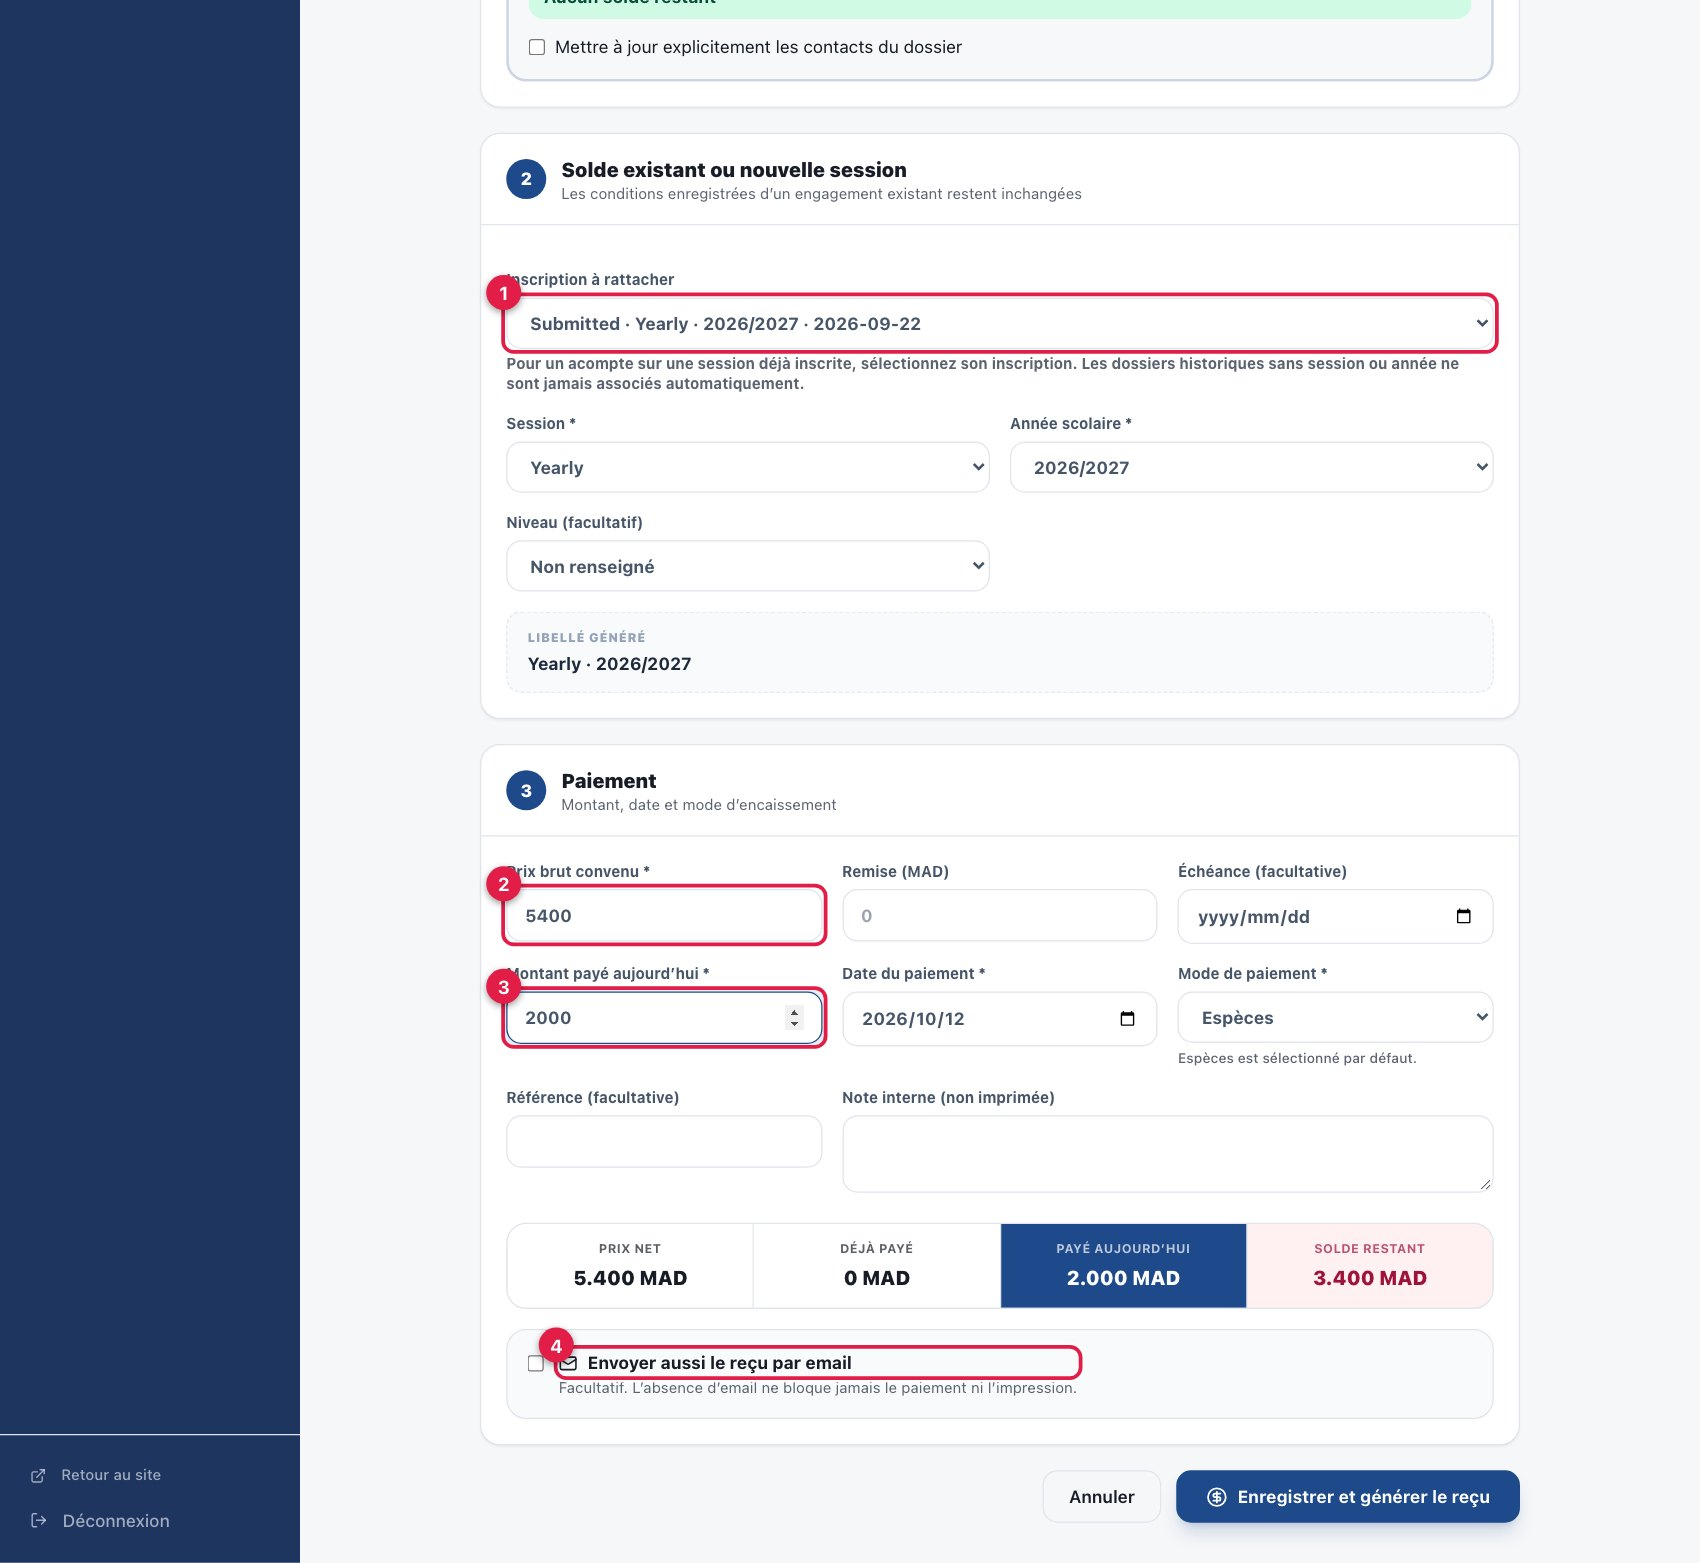
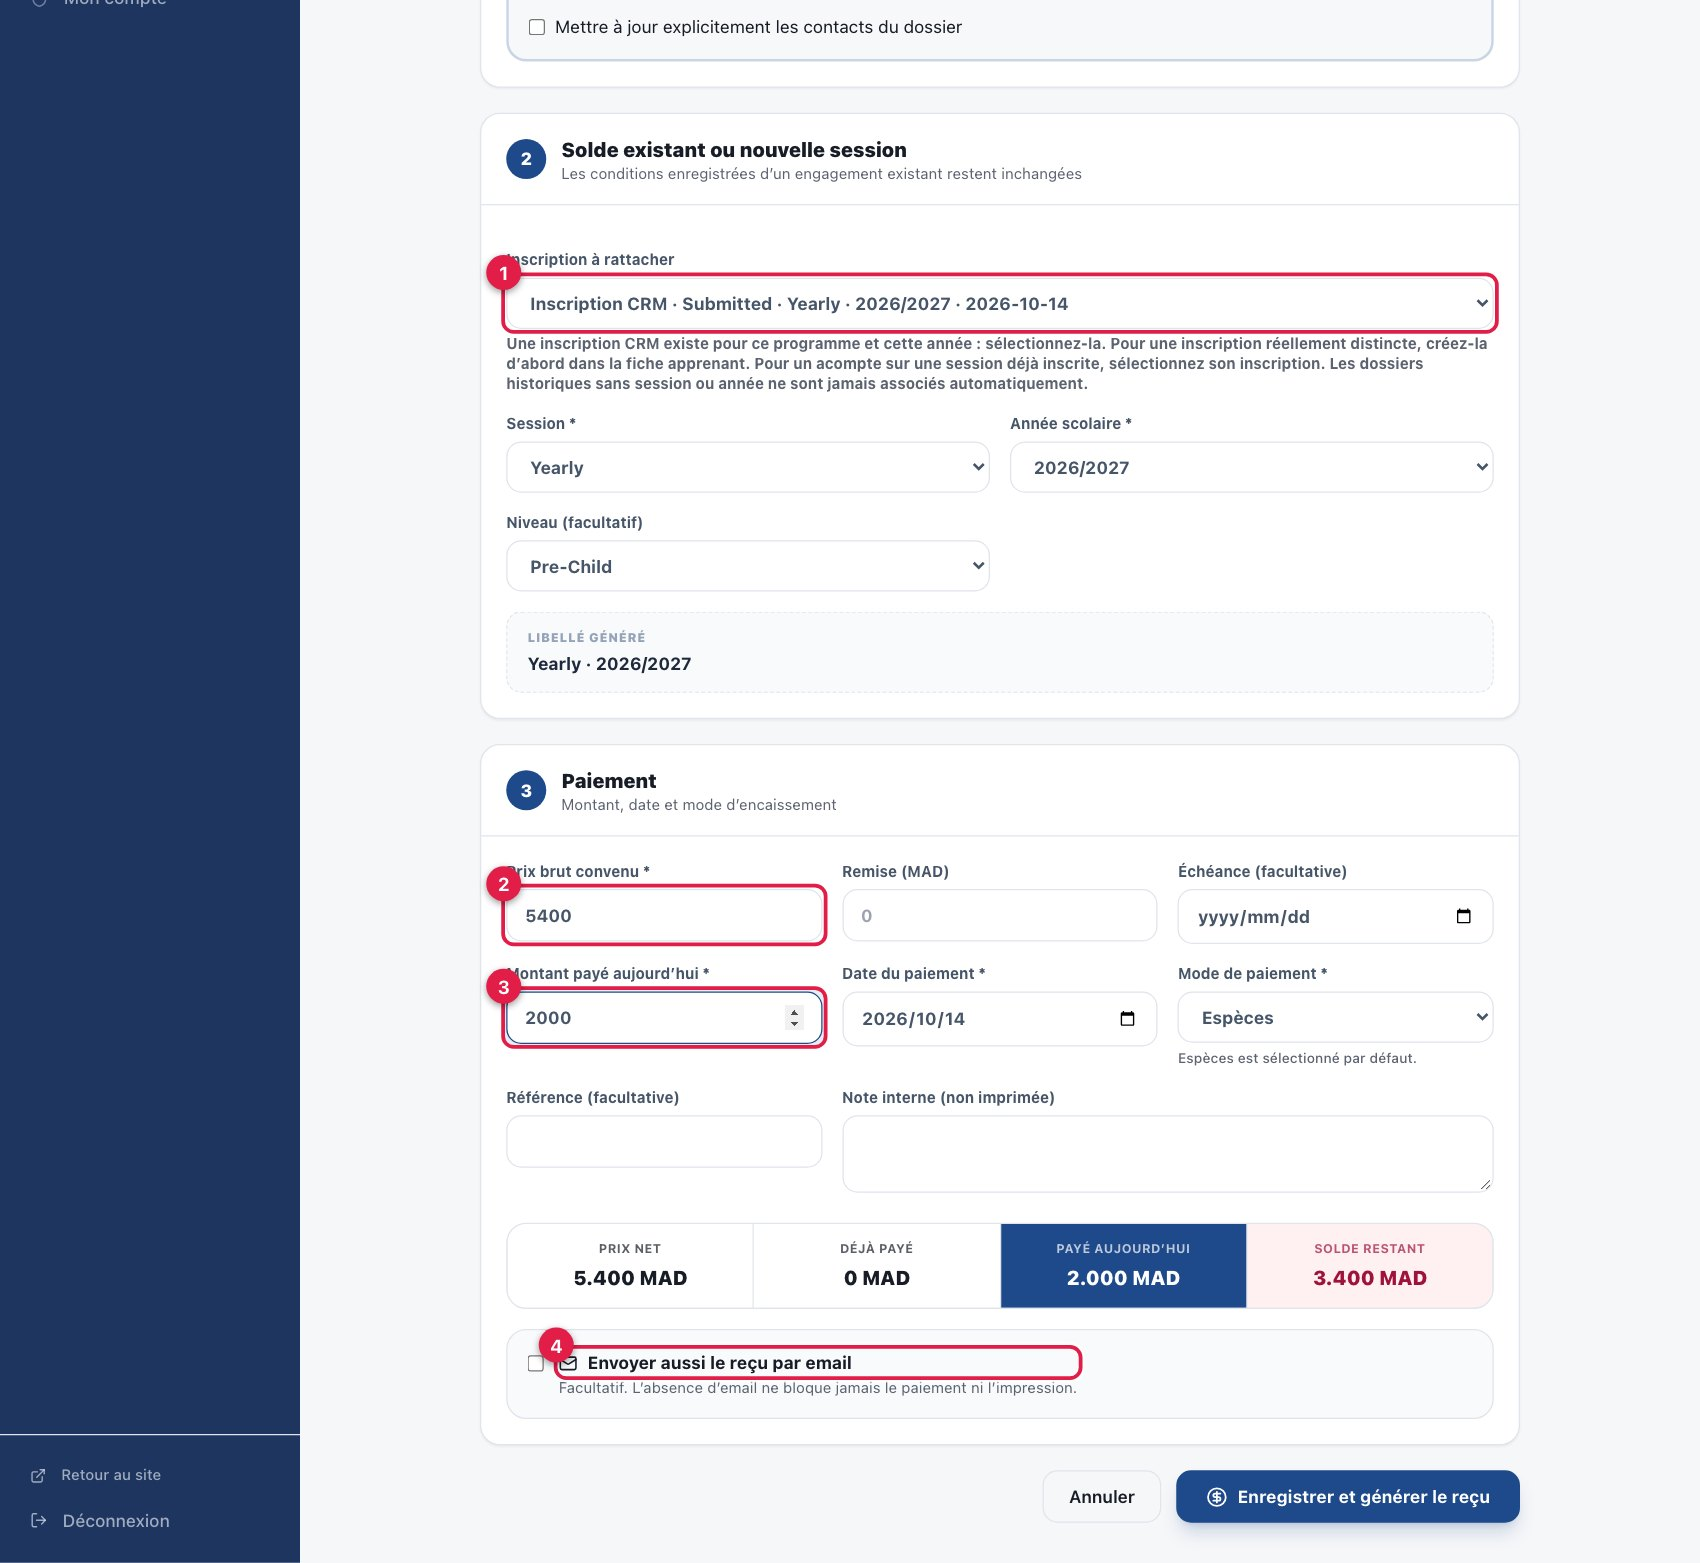
fix(help): address independent review findings on the /helpdesk guide
Review of 9cc9b466 returned READY FOR FINAL REVIEW with no blockers; this
commit closes its important findings and cheap test gaps on the same branch.

- I3: the scenario-6 screenshot showed a non-CRM enrollment while the text
  told staff to pick "Inscription CRM · ...". Recaptured from a real CRM-linked
  pre-enrollment (synthetic data) and the caption now says to choose the line
  starting with "Inscription CRM ·", which is what converts the prospect.
- I2: record that public/helpdesk screenshots are public static files that must
  stay synthetic (FEATURE_INDEX row and a note in GuideContent.jsx).
- Test gaps: the Sidebar test now asserts the "Aide" entry for director, admin
  and receptionist only (teacher, parent, student and unknown roles never see
  it), and test-helpdesk-content asserts every selector in helpdesk.css is
  scoped under .hd or .hd-scroll. Both were mutation-checked to fail on a
  regression.
- Lightbox: Tab stays on Close, focus returns to the screenshot on close, and
  scroll no longer chains to the page behind it.
- The three enrollment buttons are quoted with the straight apostrophe the UI
  uses ("Commencer l'inscription", "Continuer l'inscription", "Ouvrir
  l'apprenant").

No routing, authorization, data access or migration change.

Changed region(s): [[0.2806, 0.0921, 0.9041, 0.2457], [0.3118, 0.0, 0.8729, 0.0614], [0.3118, 0.3378, 0.3741, 0.3685]]

diff --git a/src/app/(admin)/helpdesk/GuideContent.jsx b/src/app/(admin)/helpdesk/GuideContent.jsx
@@ -3,6 +3,7 @@ import Image from 'next/image';
 // Static French guide for the reception team, served at /helpdesk.
 // Source of truth for the content: this file. Screenshots live in public/helpdesk (synthetic data only).
 // Keep button and menu names exactly as they appear on screen; scripts/test-helpdesk-content.mjs checks anchors and images.
+// The screenshots in public/helpdesk are public static files (no login needed to fetch them): they must contain synthetic data only.
 export default function GuideContent() {
   return (
     <>
@@ -132,7 +133,7 @@ export default function GuideContent() {
 </tr>
 <tr>
 <td>Inscrire un prospect qualifié</td>
-<td>Fiche du prospect › <span className="ui">Commencer l’inscription</span></td>
+<td>Fiche du prospect › <span className="ui">Commencer l&apos;inscription</span></td>
 <td><a href="#s6">Scénario 6</a></td>
 </tr>
 <tr>
@@ -508,7 +509,7 @@ export default function GuideContent() {
 </li>
 </ol>
 <div className="callout warn">
-<strong>«&nbsp;Marquer comme fait&nbsp;» ne fait que fermer la tâche</strong><p>Cela ne réserve pas de test, ne commence pas d’inscription et ne change pas l’étape. Pour avancer, utilisez les boutons de la fiche&nbsp;: <span className="ui">Réserver un test</span> ou <span className="ui">Commencer l’inscription</span>.</p>
+<strong>«&nbsp;Marquer comme fait&nbsp;» ne fait que fermer la tâche</strong><p>Cela ne réserve pas de test, ne commence pas d’inscription et ne change pas l’étape. Pour avancer, utilisez les boutons de la fiche&nbsp;: <span className="ui">Réserver un test</span> ou <span className="ui">Commencer l&apos;inscription</span>.</p>
 </div>
 <p>Pour décaler une visite&nbsp;: <span className="ui">Replanifier</span>, nouvelle date et heure. Pour la supprimer&nbsp;: <span className="ui">Annuler l’action</span> dans la fiche (un motif et une nouvelle prochaine action sont demandés). Le bouton <span className="ui">Annuler</span> n’existe pas sur les lignes de la page Tâches.</p>
 </article>
@@ -520,13 +521,13 @@ export default function GuideContent() {
 </header>
 <ol className="flow">
 <li><b>Prospect Qualifié</b><small>le projet est qualifié</small></li>
-<li><b>Pré-inscription</b><small>«&nbsp;Commencer l’inscription&nbsp;»&nbsp;: le prospect reste Qualifié</small></li>
+<li><b>Pré-inscription</b><small>«&nbsp;Commencer l&apos;inscription&nbsp;»&nbsp;: le prospect reste Qualifié</small></li>
 <li><b>Paiement</b><small>«&nbsp;Nouveau reçu&nbsp;»&nbsp;: inscription confirmée</small></li>
 <li><b>Groupe affecté</b><small>«&nbsp;Groupe à affecter&nbsp;»&nbsp;: inscription validée</small></li>
 </ol>
 <h4>Temps 1&nbsp;: créer la pré-inscription</h4>
 <ol className="steps">
-<li><p>Dans la fiche, section <b>Inscription</b>, cliquez sur <span className="ui">Commencer l’inscription</span>. Le bouton n’existe que pour un prospect <span className="st st-qual">Qualifié</span> sans inscription.</p>
+<li><p>Dans la fiche, section <b>Inscription</b>, cliquez sur <span className="ui">Commencer l&apos;inscription</span>. Le bouton n’existe que pour un prospect <span className="st st-qual">Qualifié</span> sans inscription.</p>
 </li>
 <li><p><b>Étape 1/3, Apprenant.</b> Saisissez le <span className="ui">Nom de l’apprenant</span> et, si vous la connaissez, la date de naissance (pas dans le futur). La plateforme cherche les apprenants déjà connus&nbsp;: <span className="ui">Utiliser cet apprenant</span> s’il s’agit de lui, sinon <span className="ui">Créer un nouvel apprenant</span> et cochez «&nbsp;J’ai vérifié les correspondances&nbsp;: il s’agit d’un autre apprenant&nbsp;».</p>
 </li>
@@ -536,7 +537,7 @@ export default function GuideContent() {
 </li>
 </ol>
 <figure className="fig narrow">
-<Image src="/helpdesk/s08-enroll.jpg" width={1700} height={1075} alt="Fenêtre Commencer l’inscription, étape 2 sur 3" unoptimized tabIndex={0} role="button" /><figcaption>Étape 2 sur 3 de la fenêtre <span className="ui">Commencer l’inscription</span>.</figcaption>
+<Image src="/helpdesk/s08-enroll.jpg" width={1700} height={1075} alt="Fenêtre Commencer l&apos;inscription, étape 2 sur 3" unoptimized tabIndex={0} role="button" /><figcaption>Étape 2 sur 3 de la fenêtre <span className="ui">Commencer l&apos;inscription</span>.</figcaption>
 <ol className="legend">
 <li><span className="ui">Programme</span>&nbsp;: «&nbsp;Programme annuel&nbsp;», «&nbsp;Adultes&nbsp;», «&nbsp;Stage d’été&nbsp;»…</li>
 <li><span className="ui">Niveau proposé</span>&nbsp;: «&nbsp;À définir&nbsp;» si le test n’a pas eu lieu.</li>
@@ -546,7 +547,7 @@ export default function GuideContent() {
 </figure>
 <h4>Temps 2&nbsp;: encaisser et confirmer</h4>
 <ol className="steps">
-<li><p>Dans la fiche, cliquez sur <span className="ui">Continuer l’inscription</span>&nbsp;: la fiche de l’apprenant s’ouvre avec l’inscription mise en évidence («&nbsp;Inscription liée au prospect CRM&nbsp;»).</p>
+<li><p>Dans la fiche, cliquez sur <span className="ui">Continuer l&apos;inscription</span>&nbsp;: la fiche de l’apprenant s’ouvre avec l’inscription mise en évidence («&nbsp;Inscription liée au prospect CRM&nbsp;»).</p>
 </li>
 <li><p>Dans la section <b>Paiements</b>, cliquez sur <span className="ui">Nouveau reçu</span>.</p>
 </li>
@@ -560,8 +561,8 @@ export default function GuideContent() {
 </li>
 </ol>
 <figure className="fig narrow">
-<Image src="/helpdesk/s09-receipt-existing.jpg" width={1700} height={1563} alt="Formulaire de paiement avec l’inscription à rattacher, le prix et le montant payé" unoptimized tabIndex={0} role="button" /><ol className="legend">
-<li><span className="ui">Inscription à rattacher</span>&nbsp;: l’inscription créée depuis le prospect. Les statuts sont en anglais dans cette liste (Submitted = Soumise).</li>
+<Image src="/helpdesk/s09-receipt-existing.jpg" width={1700} height={1563} alt="Formulaire de paiement avec l’inscription à rattacher « Inscription CRM · Submitted », le prix et le montant payé" unoptimized tabIndex={0} role="button" /><ol className="legend">
+<li><span className="ui">Inscription à rattacher</span>&nbsp;: choisissez la ligne qui commence par «&nbsp;Inscription CRM&nbsp;·&nbsp;». C’est l’inscription créée depuis le prospect, et c’est ce choix qui le convertit. Les statuts sont en anglais dans cette liste (Submitted = Soumise).</li>
 <li><span className="ui">Prix brut convenu</span>&nbsp;: saisi à chaque nouvel engagement, il n’y a pas de tarif par défaut.</li>
 <li><span className="ui">Montant payé aujourd’hui</span>&nbsp;: il ne peut pas dépasser le solde.</li>
 <li><span className="ui">Envoyer aussi le reçu par email</span>&nbsp;: facultatif, désactivé par défaut.</li>
@@ -1208,7 +1209,7 @@ export default function GuideContent() {
 <p>C’est voulu&nbsp;: la pré-inscription ne confirme rien. Le prospect passe en «&nbsp;Inscription confirmée&nbsp;» quand un paiement est enregistré sur son inscription (scénario 6).</p>
 </details>
 <details className="faq">
-<summary>Le bouton «&nbsp;Commencer l’inscription&nbsp;» n’apparaît pas</summary>
+<summary>Le bouton «&nbsp;Commencer l&apos;inscription&nbsp;» n’apparaît pas</summary>
 <p>Il n’existe que pour un prospect «&nbsp;Qualifié&nbsp;» sans inscription. La fiche indique la raison en dessous&nbsp;: «&nbsp;Qualifiez le projet avant de commencer une inscription&nbsp;», ou «&nbsp;Rouvrez le prospect…&nbsp;» s’il est clôturé.</p>
 </details>
 <details className="faq">
@@ -1306,7 +1307,7 @@ export default function GuideContent() {
 <div className="card mini">
 <h4>Inscrire</h4>
 <ul className="tight">
-<li><span className="ui">Commencer l’inscription</span>&nbsp;: le prospect reste Qualifié.</li>
+<li><span className="ui">Commencer l&apos;inscription</span>&nbsp;: le prospect reste Qualifié.</li>
 <li><span className="ui">Nouveau reçu</span>&nbsp;: choisir «&nbsp;Inscription CRM…&nbsp;».</li>
 <li>Paiement &gt; 0&nbsp;: inscription confirmée.</li>
 <li>Ensuite&nbsp;: <span className="ui">Groupe à affecter</span>.</li>

diff --git a/src/app/(admin)/helpdesk/ImageZoom.jsx b/src/app/(admin)/helpdesk/ImageZoom.jsx
@@ -1,25 +1,36 @@
 'use client';
 
-import { useEffect, useRef, useState } from 'react';
+import { useCallback, useEffect, useRef, useState } from 'react';
 
 // Click (or Enter/Space) on a guide screenshot to see it at full size.
 export default function ImageZoom({ children }) {
   const [shot, setShot] = useState(null);
   const closeRef = useRef(null);
+  const openerRef = useRef(null);
+
+  const close = useCallback(() => {
+    setShot(null);
+    // Give keyboard users their place back once the overlay is gone.
+    requestAnimationFrame(() => openerRef.current?.focus());
+  }, []);
 
   useEffect(() => {
     if (!shot) return undefined;
-    const onKey = (e) => { if (e.key === 'Escape') setShot(null); };
+    const onKey = (e) => {
+      if (e.key === 'Escape') close();
+      else if (e.key === 'Tab') { e.preventDefault(); closeRef.current?.focus(); } // Close is the only control
+    };
     document.addEventListener('keydown', onKey);
     closeRef.current?.focus();
     return () => document.removeEventListener('keydown', onKey);
-  }, [shot]);
+  }, [shot, close]);
 
   const pick = (e) => {
     const img = e.target instanceof HTMLImageElement && e.target.closest('figure.fig') ? e.target : null;
     if (!img) return;
     if (e.type === 'keydown' && e.key !== 'Enter' && e.key !== ' ') return;
     e.preventDefault();
+    openerRef.current = img;
     setShot({ src: img.currentSrc || img.src, alt: img.alt });
   };
 
@@ -28,8 +39,8 @@ export default function ImageZoom({ children }) {
       {/* The wrapper only delegates events; every image is itself keyboard-focusable. */}
       <div onClick={pick} onKeyDown={pick}>{children}</div>
       {shot && (
-        <div className="lb on" role="dialog" aria-modal="true" aria-label="Image agrandie" onClick={() => setShot(null)}>
-          <button type="button" ref={closeRef} onClick={() => setShot(null)}>Fermer</button>
+        <div className="lb on" role="dialog" aria-modal="true" aria-label="Image agrandie" onClick={close}>
+          <button type="button" ref={closeRef} onClick={close}>Fermer</button>
           {/* Natural-size preview of an already loaded static screenshot; next/image needs fixed dimensions. */}
           {/* eslint-disable-next-line @next/next/no-img-element */}
           <img src={shot.src} alt={shot.alt} />

diff --git a/src/app/(admin)/helpdesk/helpdesk.css b/src/app/(admin)/helpdesk/helpdesk.css
@@ -124,3 +124,4 @@
 @media (min-width:900px){.hd .lb img{width:auto;max-width:min(1700px,100%)}}
 @media (max-width:640px){.hd .ui, .hd .menu{white-space:normal}.hd .scn{padding-inline:14px}}.hd .part, .hd .scn { scroll-margin-top: 16px; }
 .hd ul.tight, .hd td ul { list-style: disc; }
+.hd .lb { overscroll-behavior: contain; }

diff --git a/docs/architecture/FEATURE_INDEX.md b/docs/architecture/FEATURE_INDEX.md
@@ -19,7 +19,7 @@ Navigation, not another specification. Start with the [master architecture](../a
 | Finance/charges/payments/receipts — implemented | [/receipts](../../src/app/(admin)/receipts) | [034](../../supabase/migrations/034_finance_aggregates.sql), [050](../../supabase/migrations/050_receipt_academic_links.sql), [055](../../supabase/migrations/055_receipt_charge_payments.sql), [056](../../supabase/migrations/056_archived_student_receipt_reconciliation.sql), [057](../../supabase/migrations/057_receipt_school_year_workflow.sql), [076](../../supabase/migrations/076_delete_mistaken_receipt.sql), [085](../../supabase/migrations/085_crm_revenue_attribution.sql) | [Receipt model](../receipt-financial-model.md), [rules](../ai/PRODUCT_RULES.md#conversion-and-finance) | Operational receipt permissions verified in [Batch 1](plans/completed/receptionist-batch1-permissions.md); broader finance acceptance NEEDS VERIFICATION. |
 | School/admin reporting — implemented | [/reports](../../src/app/(admin)/reports) | [001](../../supabase/migrations/001_initial_schema.sql), [034](../../supabase/migrations/034_finance_aggregates.sql), [038](../../supabase/migrations/038_referral_breakdown.sql), [039](../../supabase/migrations/039_merge_source_ads_enrolled_breakdown.sql) | [Role boundaries](../ai/SECURITY_RULES.md#current-roles) | [Current register](../ai/CURRENT_STATE.md#capability-register); feature acceptance NEEDS VERIFICATION. |
 | Receptionist — Outcome 3 operating workspace complete | [/crm/leads](../../src/app/(admin)/crm/leads) · [/crm/today](../../src/app/(admin)/crm/today) · [/placement-tests](../../src/app/(admin)/placement-tests) | [077](../../supabase/migrations/077_receptionist_role_and_operational_access.sql), [096](../../supabase/migrations/096_receptionist_operational_permissions.sql), [097](../../supabase/migrations/097_receptionist_group_assignment_filter.sql), [107](../../supabase/migrations/107_crm_opportunities_workspace_reads.sql), [108](../../supabase/migrations/108_crm_work_queue_admissions_calendar.sql), [111](../../supabase/migrations/111_crm_rcc_a1_outcome_led_followup.sql) | [Completed O3-r2](plans/completed/outcome-3-receptionist-workspace.md) · [RCC-r1](plans/completed/rcc-r1-receptionist-crm-completion.md) | Opportunities, shared drawer, Tasks/My Work and Admissions Calendar are Production verified; RCC-A1 outcome-led follow-up is Production verified ([release](evidence/rcc-a1-production-2026-10-07.md)); RCC-A2 enrollment UX ([release](evidence/rcc-a2-production-2026-10-07.md)) and RCC-B1 responsive Opportunities presentation ([release](evidence/rcc-b1-production-2026-10-08.md), bounded acceptance, no migration) are Production verified, so RCC-r1 is complete; dedicated walk-in redesign remains separate. |
-| Staff help guide (Guide Accueil) — implemented | [/helpdesk](../../src/app/(admin)/helpdesk) · [screenshots](../../public/helpdesk) | None (static page, no data access) | Route policy `canViewHelp` in [roleAccess](../../src/lib/roleAccess.mjs) for director, admin and receptionist; sidebar entry “Aide”; content checked by [test-helpdesk-content](../../scripts/test-helpdesk-content.mjs) | Content is French, written against the receptionist portal on 2026-10-12 and verified on synthetic local data; no authenticated real-staff walkthrough yet. Update it when portal labels or workflows change. |
+| Staff help guide (Guide Accueil) — implemented | [/helpdesk](../../src/app/(admin)/helpdesk) · [screenshots](../../public/helpdesk) | None (static page, no data access) | Route policy `canViewHelp` in [roleAccess](../../src/lib/roleAccess.mjs) for director, admin and receptionist; sidebar entry “Aide”; content checked by [test-helpdesk-content](../../scripts/test-helpdesk-content.mjs) | Content is French, written against the receptionist portal on 2026-10-12 and verified on synthetic local data; no authenticated real-staff walkthrough yet. The screenshots under `public/helpdesk` are public static files (no login needed to fetch them) and must contain synthetic data only. Update the guide when portal labels or workflows change. |
 | Administration/roles/settings — implemented | [/settings](../../src/app/(admin)/settings) | [002](../../supabase/migrations/002_profiles_and_auth_trigger.sql), [041](../../supabase/migrations/041_batch1_authorization_containment.sql), [042](../../supabase/migrations/042_batch2_role_management.sql), [047](../../supabase/migrations/047_authorization_policy_cleanup.sql), [077](../../supabase/migrations/077_receptionist_role_and_operational_access.sql) | [Security rules](../ai/SECURITY_RULES.md#current-roles) | [Current register](../ai/CURRENT_STATE.md#capability-register); route access is not configuration authority. |
 | Teacher/parent/student portals — implemented | [teacher-portal](../../src/app/(admin)/teacher-portal) · [parent-portal](../../src/app/(admin)/parent-portal) · [student-portal](../../src/app/(admin)/student-portal) | [001](../../supabase/migrations/001_initial_schema.sql), [006](../../supabase/migrations/006_rls_policies.sql), [044](../../supabase/migrations/044_parent_enrollment_teacher_leave_permissions.sql), [059](../../supabase/migrations/059_message_recipient_authorization.sql), [069](../../supabase/migrations/069_teacher_message_identity.sql), [071](../../supabase/migrations/071_teacher_academic_relationships.sql) | [Role relationships](../ai/SECURITY_RULES.md#current-roles) | [Current register](../ai/CURRENT_STATE.md#capability-register); Production feature acceptance NEEDS VERIFICATION. |
 
